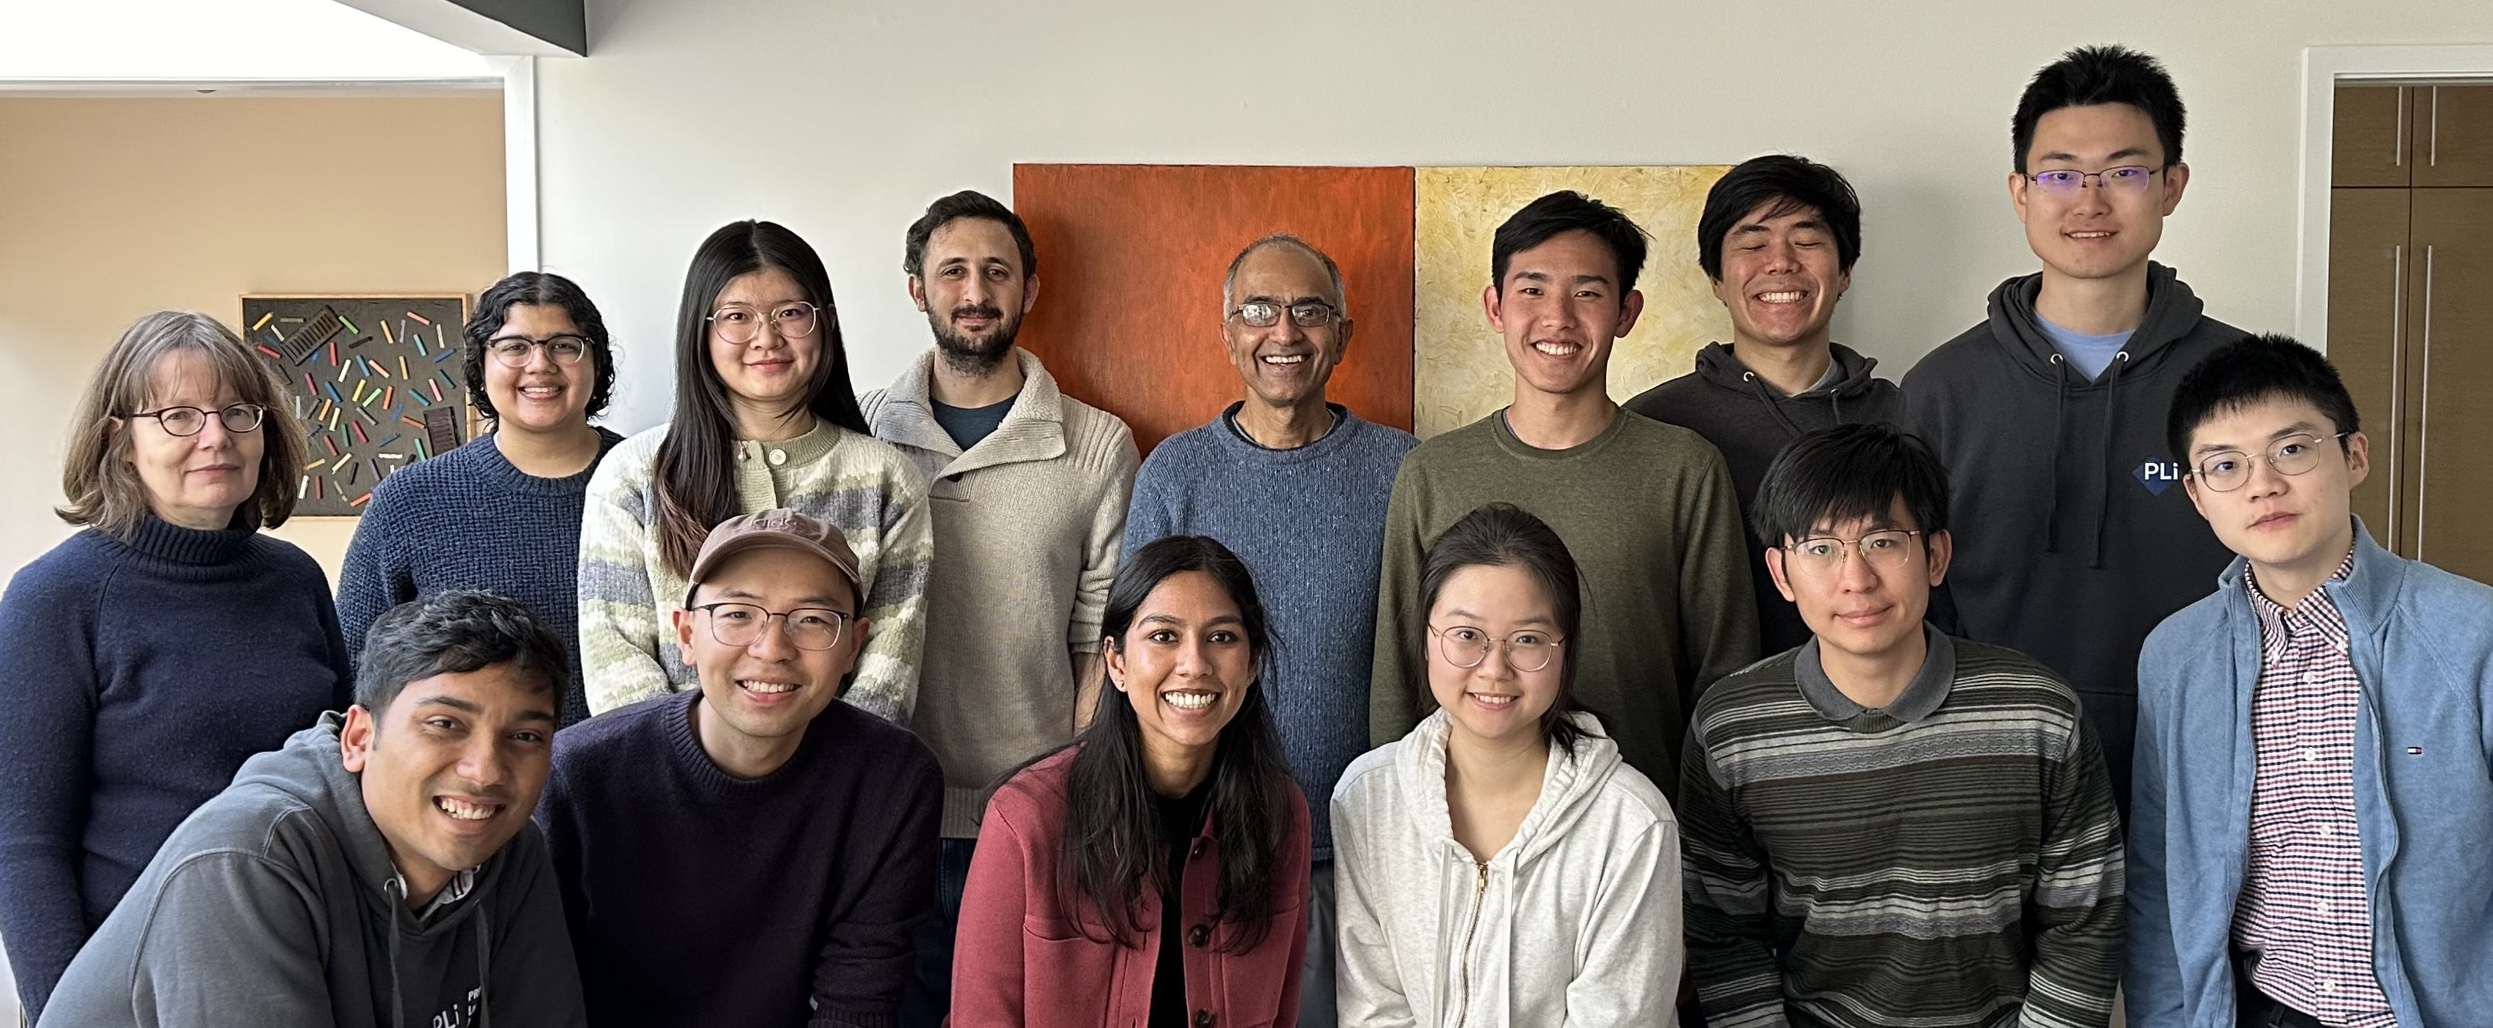
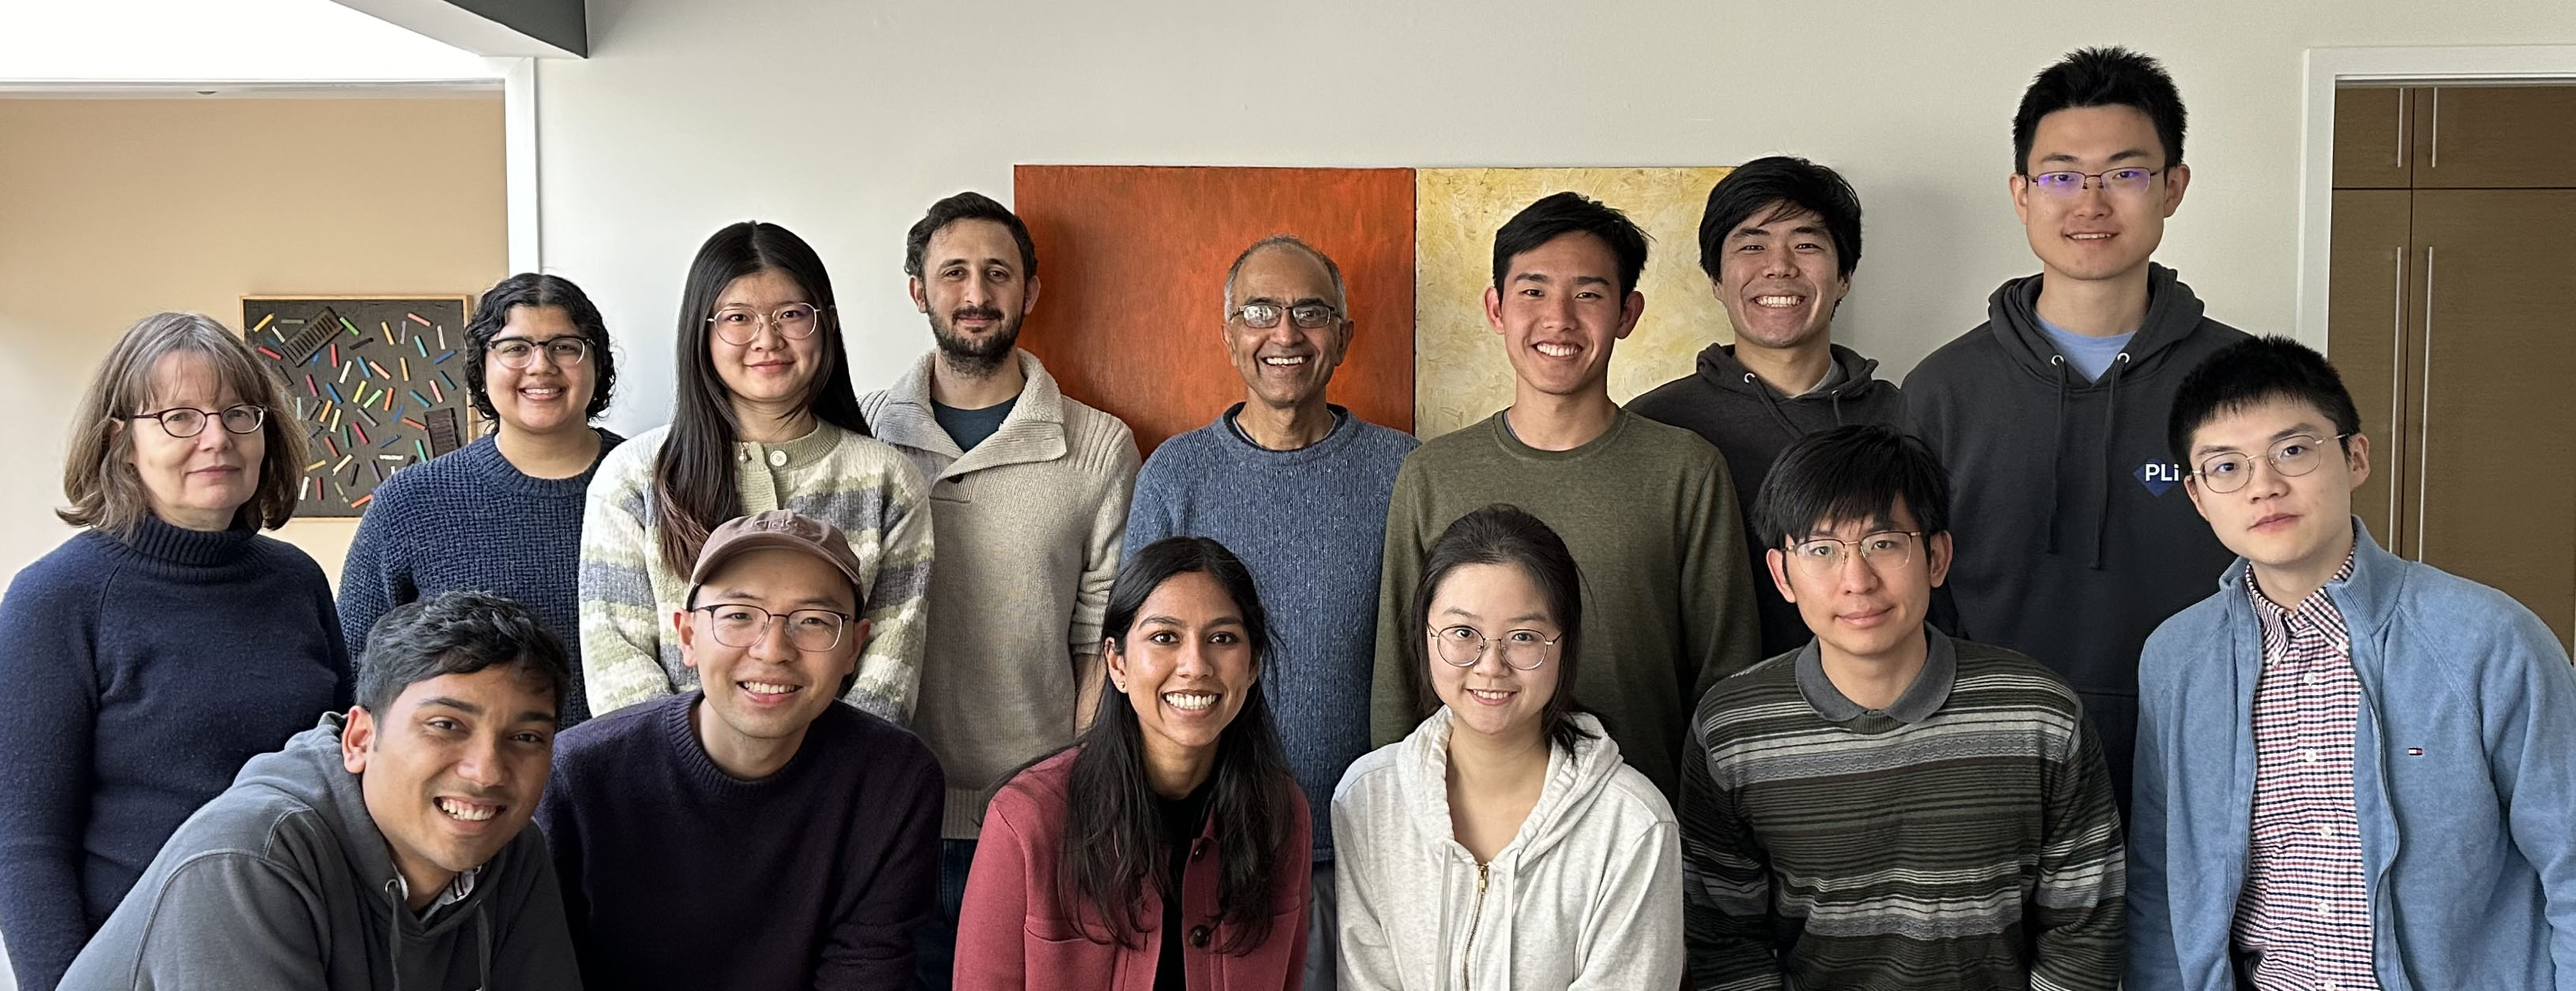
update

diff --git a/_site/index.html b/_site/index.html
@@ -52,7 +52,7 @@
       </header>
       <section>
 
-      <p><img src="/assets/img/group-photo-2024.jpg" style="height: 100%; width:65%; display: block; margin-left: auto; margin-right: auto; padding: 0px 3px 0px px; background-color: #fefefe;" /></p>
+      <p><img src="/assets/img/group-photo-2024.jpg" style="height: 100%; width:67%; display: block; margin-left: auto; margin-right: auto; padding: 0px 3px 0px px; background-color: #fefefe;" /></p>
 
 <h2 id="research">Research</h2>
 
@@ -82,7 +82,7 @@
                     
                         <td><b>[09/2024]</b></td>
                         
-                            <td> Check out our new paper <a href="https://arxiv.org/abs/2408.14774"><i>Instruct-SkillMix: A Powerful Pipeline for LLM Instruction Tuning</i></a>!</td>
+                            <td> New paper <a href="https://arxiv.org/abs/2408.14774"><i>Instruct-SkillMix: A Powerful Pipeline for LLM Instruction Tuning</i></a> was accepted to Compositional Learning Workshop at NeurIPS 2024 (Oral), FITML Workshop at NeurIPS 2024! </td>
                         
                     
                 
@@ -94,7 +94,7 @@
                     
                         <td><b>[09/2024]</b></td>
                         
-                            <td> New paper <a href="https://arxiv.org/abs/2409.19808"><i>Can Models Learn Skill Composition from Examples?</i></a> was accepted by NeurIPS 2024! </td>
+                            <td> New paper <a href="https://arxiv.org/abs/2409.19808"><i>Can Models Learn Skill Composition from Examples?</i></a> was accepted to NeurIPS 2024! </td>
                         
                     
                 
@@ -106,7 +106,7 @@
                     
                         <td><b>[09/2024]</b></td>
                         
-                            <td> New paper <a href="https://arxiv.org/abs/2402.18540"><i>Keeping LLMs Aligned After Fine-tuning: The Crucial Role of Prompt Templates</i></a> was accepted by NeurIPS 2024! </td>
+                            <td> New paper <a href="https://arxiv.org/abs/2402.18540"><i>Keeping LLMs Aligned After Fine-tuning: The Crucial Role of Prompt Templates</i></a> was accepted to NeurIPS 2024! </td>
                         
                     
                 
@@ -118,7 +118,7 @@
                     
                         <td><b>[09/2024]</b></td>
                         
-                            <td> New paper <a href="https://arxiv.org/abs/2407.21009"><i>AI-Assisted Generation of Difficult Math Questions</i></a> was accepted by NeurIPS 2024! </td>
+                            <td> New paper <a href="https://arxiv.org/abs/2407.21009"><i>AI-Assisted Generation of Difficult Math Questions</i></a> was accepted to MATH-AI Workshop at NeurIPS 2024! </td>
                         
                     
                 
@@ -130,7 +130,7 @@
                     
                         <td><b>[05/2024]</b></td>
                         
-                            <td> New paper <a href="https://arxiv.org/abs/2307.01189"><i>Trainable transformer in transformer</i></a> was accepted by ICML 2024! </td>
+                            <td> New paper <a href="https://arxiv.org/abs/2307.01189"><i>Trainable transformer in transformer</i></a> was accepted to ICML 2024! </td>
                         
                     
                 
@@ -142,7 +142,7 @@
                     
                         <td><b>[05/2024]</b></td>
                         
-                            <td> New paper <a href="https://arxiv.org/abs/2402.04333"><i>LESS: Selecting Influential Data for Targeted Instruction Tuning</i></a> was accepted by ICML 2024! </td>
+                            <td> New paper <a href="https://arxiv.org/abs/2402.04333"><i>LESS: Selecting Influential Data for Targeted Instruction Tuning</i></a> was accepted to ICML 2024! </td>
                         
                     
                 
@@ -164,7 +164,7 @@
                     
                         <td><b>[01/2024]</b></td>
                         
-                            <td> New paper <a href="https://arxiv.org/abs/2310.17567"><i>Skill-Mix: A flexible and expandable family of evaluations for AI models</i></a> was accepted by ICLR 2024! </td>
+                            <td> New paper <a href="https://arxiv.org/abs/2310.17567"><i>Skill-Mix: A flexible and expandable family of evaluations for AI models</i></a> was accepted to ICLR 2024! </td>
                         
                     
                 

diff --git a/_site/pages/publications.html b/_site/pages/publications.html
@@ -94,7 +94,7 @@
         
 
         
-        <li><a href="https://arxiv.org/abs/2407.21009">AI-Assisted Generation of Difficult Math Questions</a>. NeurIPS 2024 (Vedant Shah, Dingli Yu, Kaifeng Lyu, Simon Park, Nan Rosemary Ke, Michael Mozer, Yoshua Bengio, Sanjeev Arora, Anirudh Goyal)</li>
+        <li><a href="https://arxiv.org/abs/2407.21009">AI-Assisted Generation of Difficult Math Questions</a>. MATH-AI Workshop at NeurIPS 2024 (Vedant Shah, Dingli Yu, Kaifeng Lyu, Simon Park, Nan Rosemary Ke, Michael Mozer, Yoshua Bengio, Sanjeev Arora, Anirudh Goyal)</li>
         
         
         
@@ -112,7 +112,7 @@
         
 
         
-        <li><a href="https://arxiv.org/abs/2409.19808">Can Models Learn Skill Composition from Examples?</a>. Preprint (Haoyu Zhao, Simran Kaur, Dingli Yu, Anirudh Goyal, Sanjeev Arora)</li>
+        <li><a href="https://arxiv.org/abs/2409.19808">Can Models Learn Skill Composition from Examples?</a>. NeurIPS 2024 (Haoyu Zhao, Simran Kaur, Dingli Yu, Anirudh Goyal, Sanjeev Arora)</li>
         
         
         

diff --git a/_includes/news.html b/_includes/news.html
@@ -20,7 +20,7 @@
                     {% if news.type == "paper" %}
                         <td><b>[{{ news.date }}]</b></td>
                         {% if news.venue %}
-                            <td> New paper <a href="{{ news.paper_link }}"><i>{{ news.paper_title }}</i></a> was accepted by {{ news.venue }}! </td>
+                            <td> New paper <a href="{{ news.paper_link }}"><i>{{ news.paper_title }}</i></a> was accepted to {{ news.venue }}! </td>
                         {% else %}
                             <td> Check out our new paper <a href="{{ news.paper_link }}"><i>{{ news.paper_title }}</i></a>!</td>
                         {% endif %}

diff --git a/_site/pages/team.html b/_site/pages/team.html
@@ -488,7 +488,7 @@
                 <div class="info">
                     <a href="https://parksimon0808.github.io" target="_blank" rel="noreferrer noopener">Simon Park</a>
                     <br />
-                    Master Student
+                    MSE Student
                 </div>
             </div>
             
@@ -505,7 +505,7 @@
                 <div class="info">
                     <a href="https://www.cs.princeton.edu/~jiatongy/" target="_blank" rel="noreferrer noopener">Jiatong Yu</a>
                     <br />
-                    Master Student
+                    MSE Student
                 </div>
             </div>
             

diff --git a/index.md b/index.md
@@ -2,7 +2,7 @@
 layout: default
 ---
 
-<img src="/assets/img/group-photo-2024.jpg" style="height: 100%; width:65%; display: block; margin-left: auto; margin-right: auto; padding: 0px 3px 0px px; background-color: #fefefe;"/>
+<img src="/assets/img/group-photo-2024.jpg" style="height: 100%; width:67%; display: block; margin-left: auto; margin-right: auto; padding: 0px 3px 0px px; background-color: #fefefe;"/>
 
 ## Research
 
